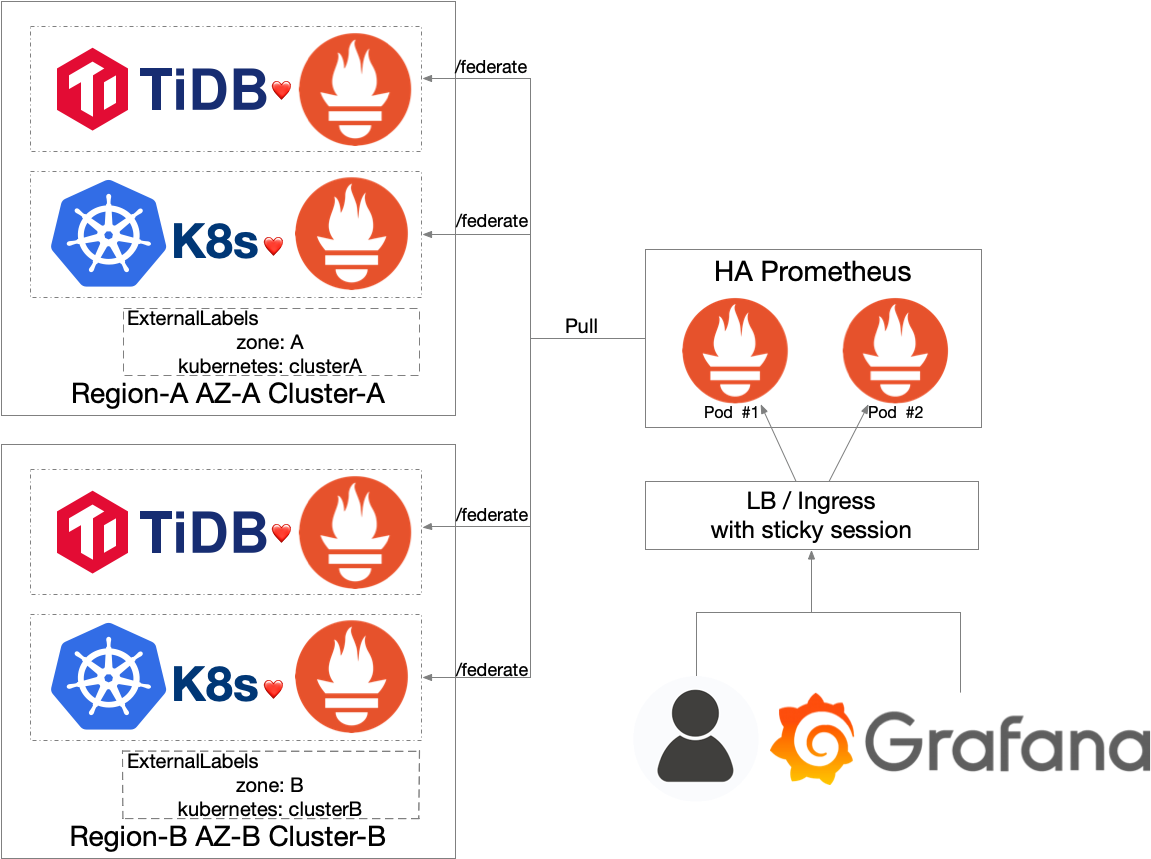
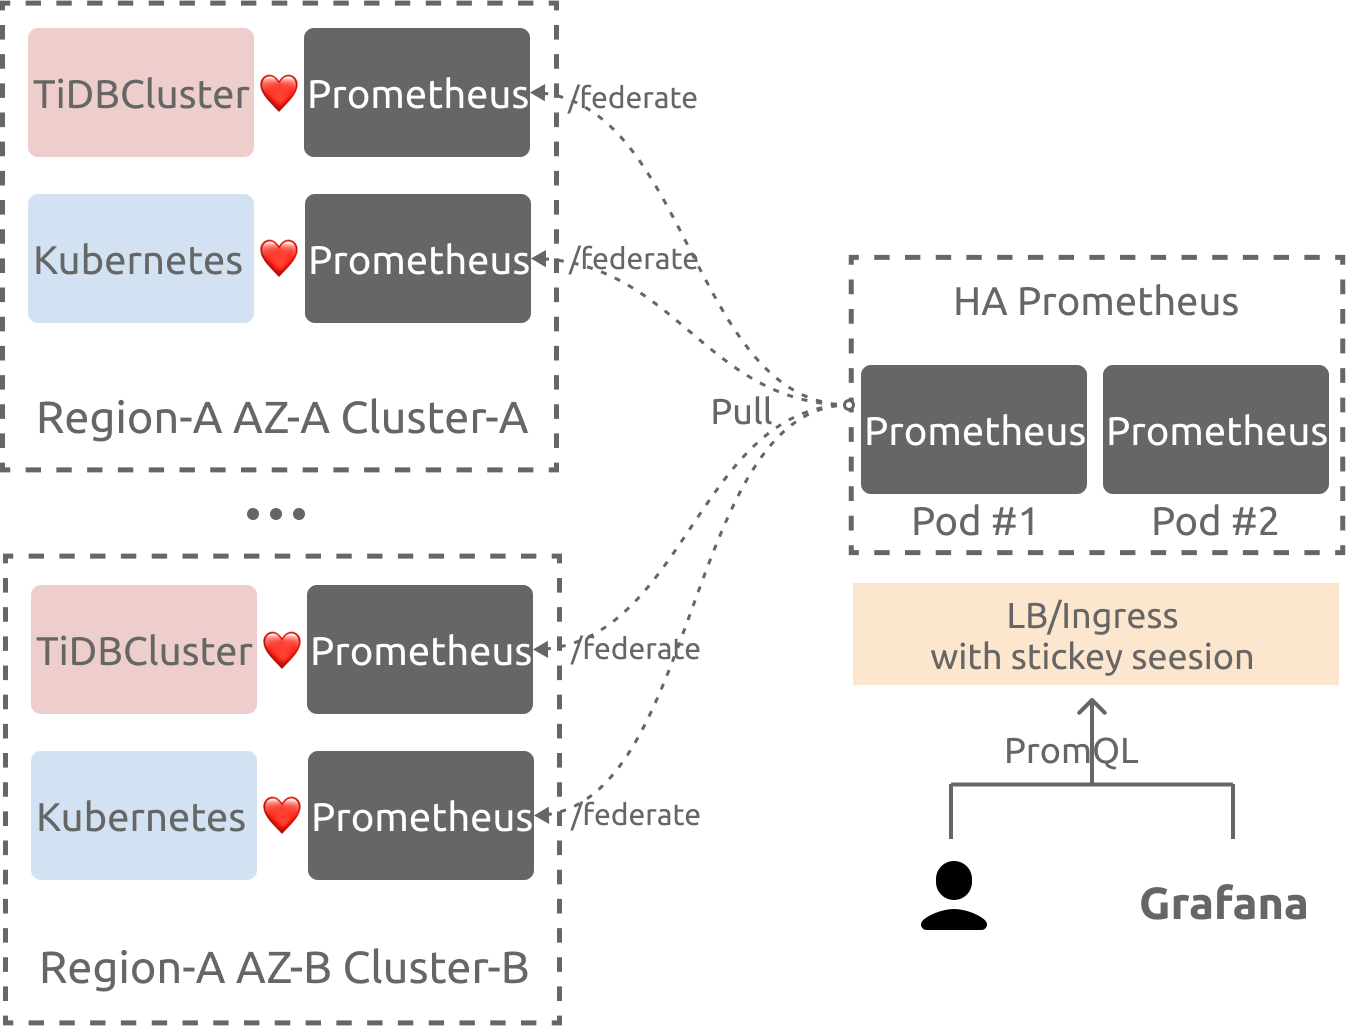
address comments

diff --git a/zh/TOC.md b/zh/TOC.md
@@ -85,6 +85,7 @@
     - [部署 TiDB 集群监控与告警](monitor-a-tidb-cluster.md)
     - [使用 TiDB Dashboard 监控诊断 TiDB 集群](access-dashboard.md)
     - [聚合多个 TiDB 集群的监控数据](aggregate-multiple-cluster-monitor-data.md)
+    - [跨多个 Kubernetes 集群监控 TiDB 集群](deploy-tidb-monitor-across-multiple-kubernetes.md)
     - [开启 TidbMonitor 动态配置](enable-monitor-dynamic-configuration.md)
     - [开启 TidbMonitor 分片功能](enable-monitor-shards.md)
   - 灾难恢复
